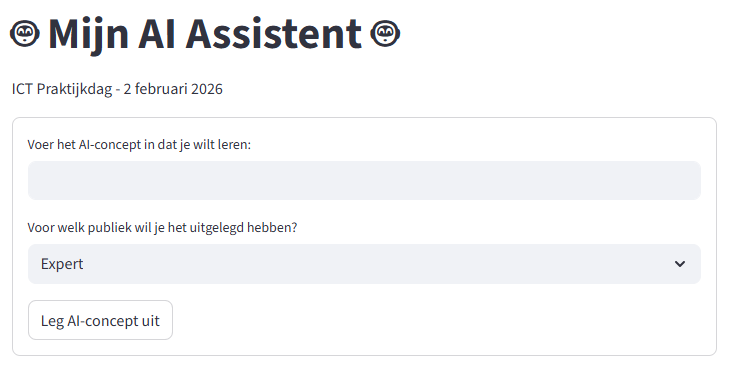
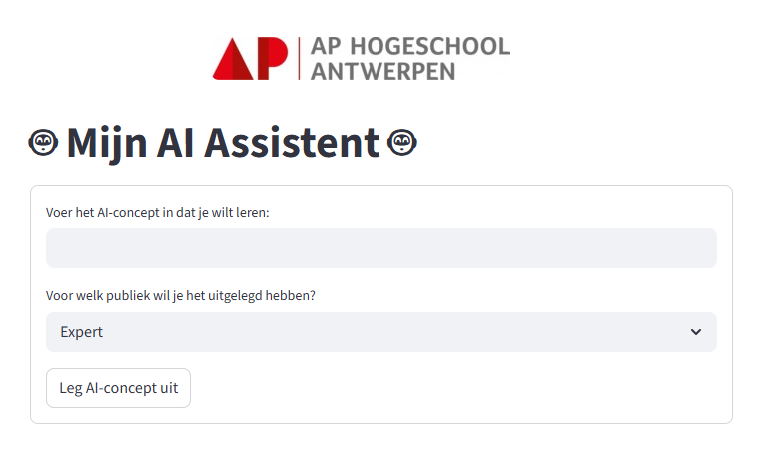
update chatbot

diff --git a/AI_app.py b/AI_app.py
@@ -2,8 +2,10 @@ import streamlit as st
 from chatbot_functies import chatbot_response
 
 
+col1, col2, col3 = st.columns([1, 2, 1])
+with col2:
+    st.image("AP_logo_basis_rgb.jpg", width=300)
 st.title("🤖 Mijn AI Assistent 🤖")
-st.markdown("ICT Praktijkdag - 2 februari 2026")
 form = st.form(key="user_settings")
 with form:
     AI_concept = st.text_input("Voer het AI-concept in dat je wilt leren:", key = "AI_concept")

diff --git a/README.md b/README.md
@@ -1,8 +1,8 @@
-# ICT Praktijkdag - [Maak je eigen AI-assistent](https://www.ictdag.be/48/aanbod/sessie/102)
+# GenAI Workshop - AP Hogeschool
 
 Workshop materiaal voor het bouwen van AI-applicaties met Python en Streamlit.
 
-**Datum:** 2 februari 2026
+**Datum:** 11 maart 2026
 
 **Lesgever:** Wim Casteels - [wimcasteels.be](https://wimcasteels.be)
 
